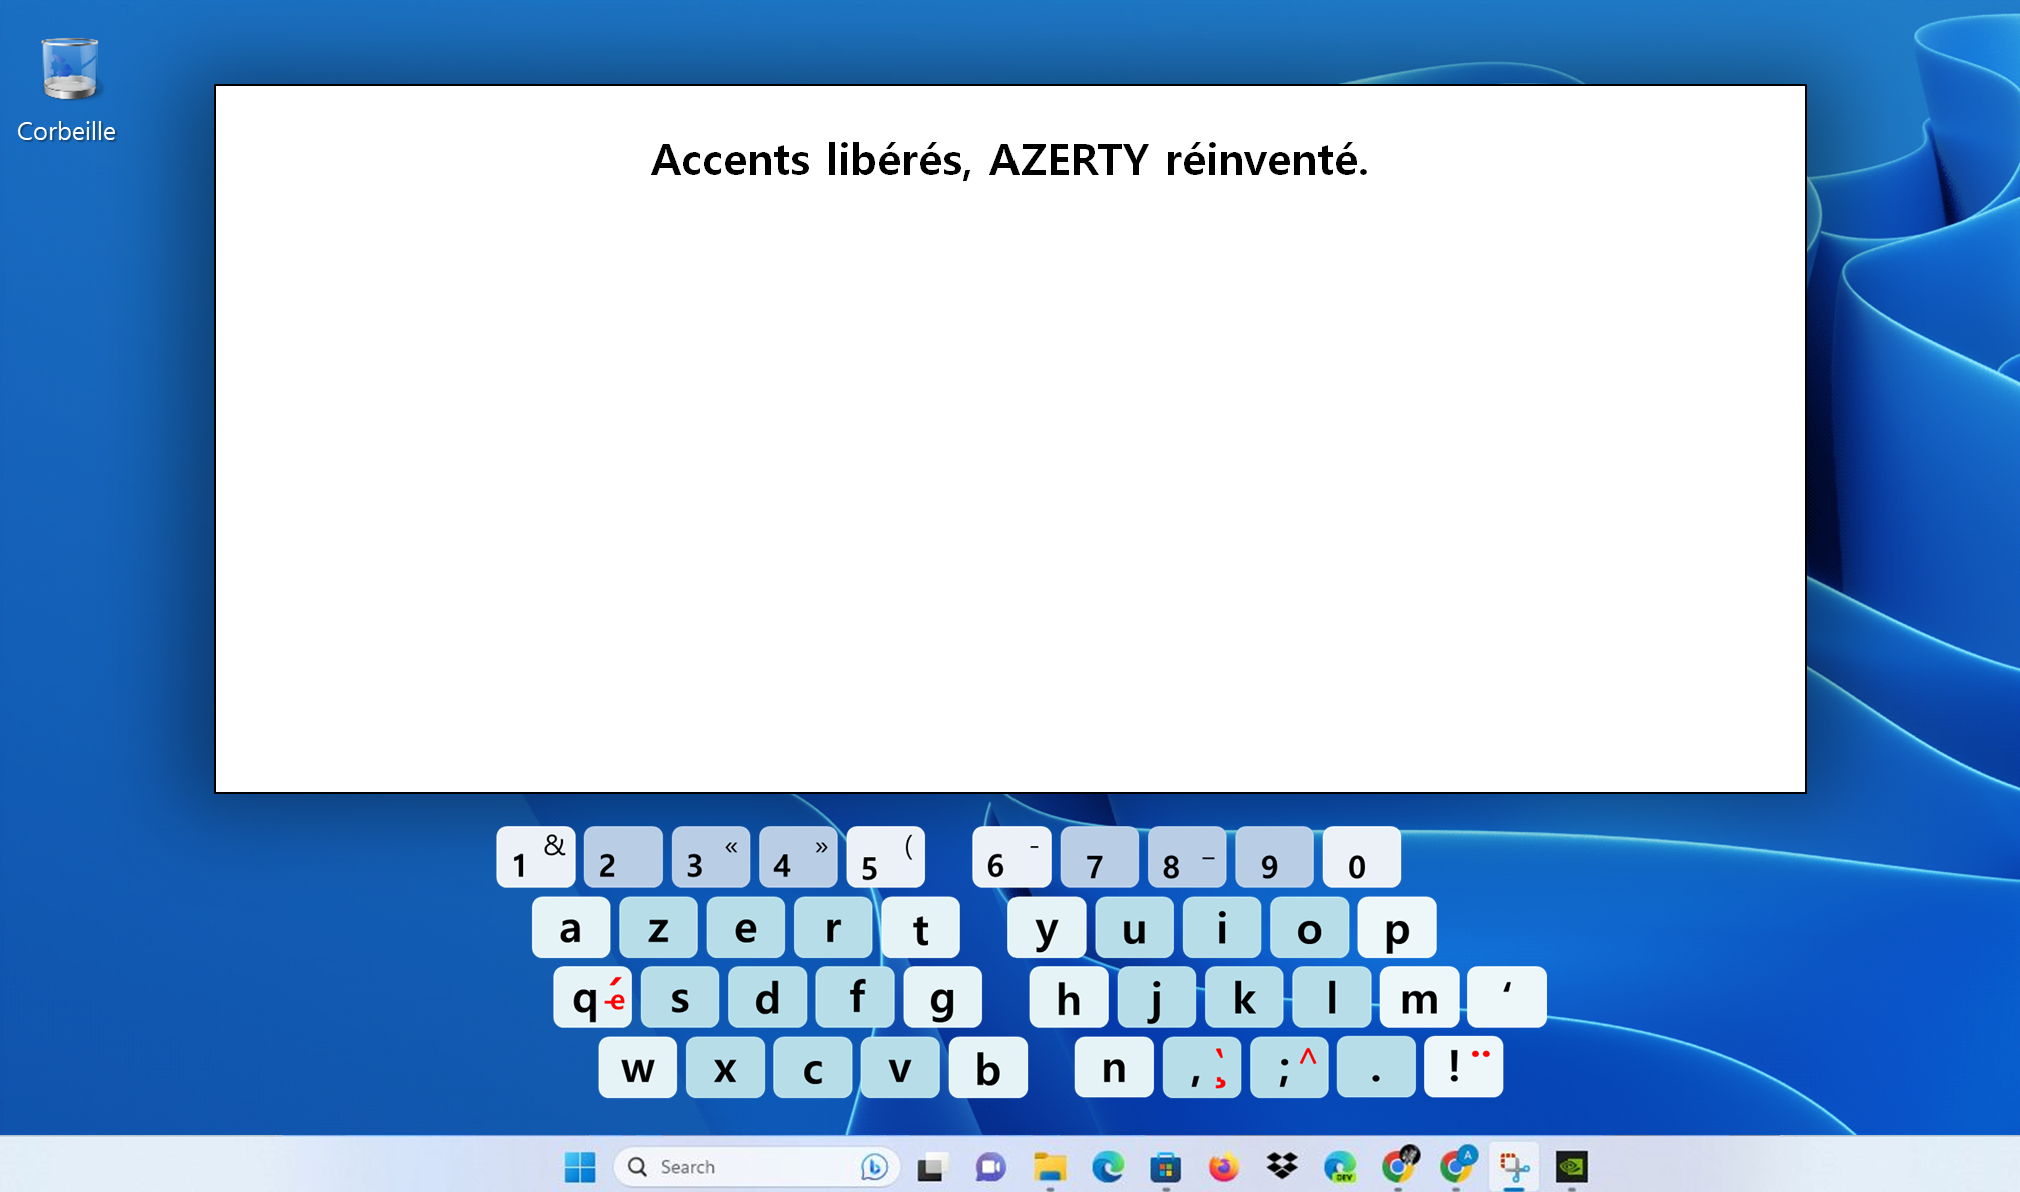
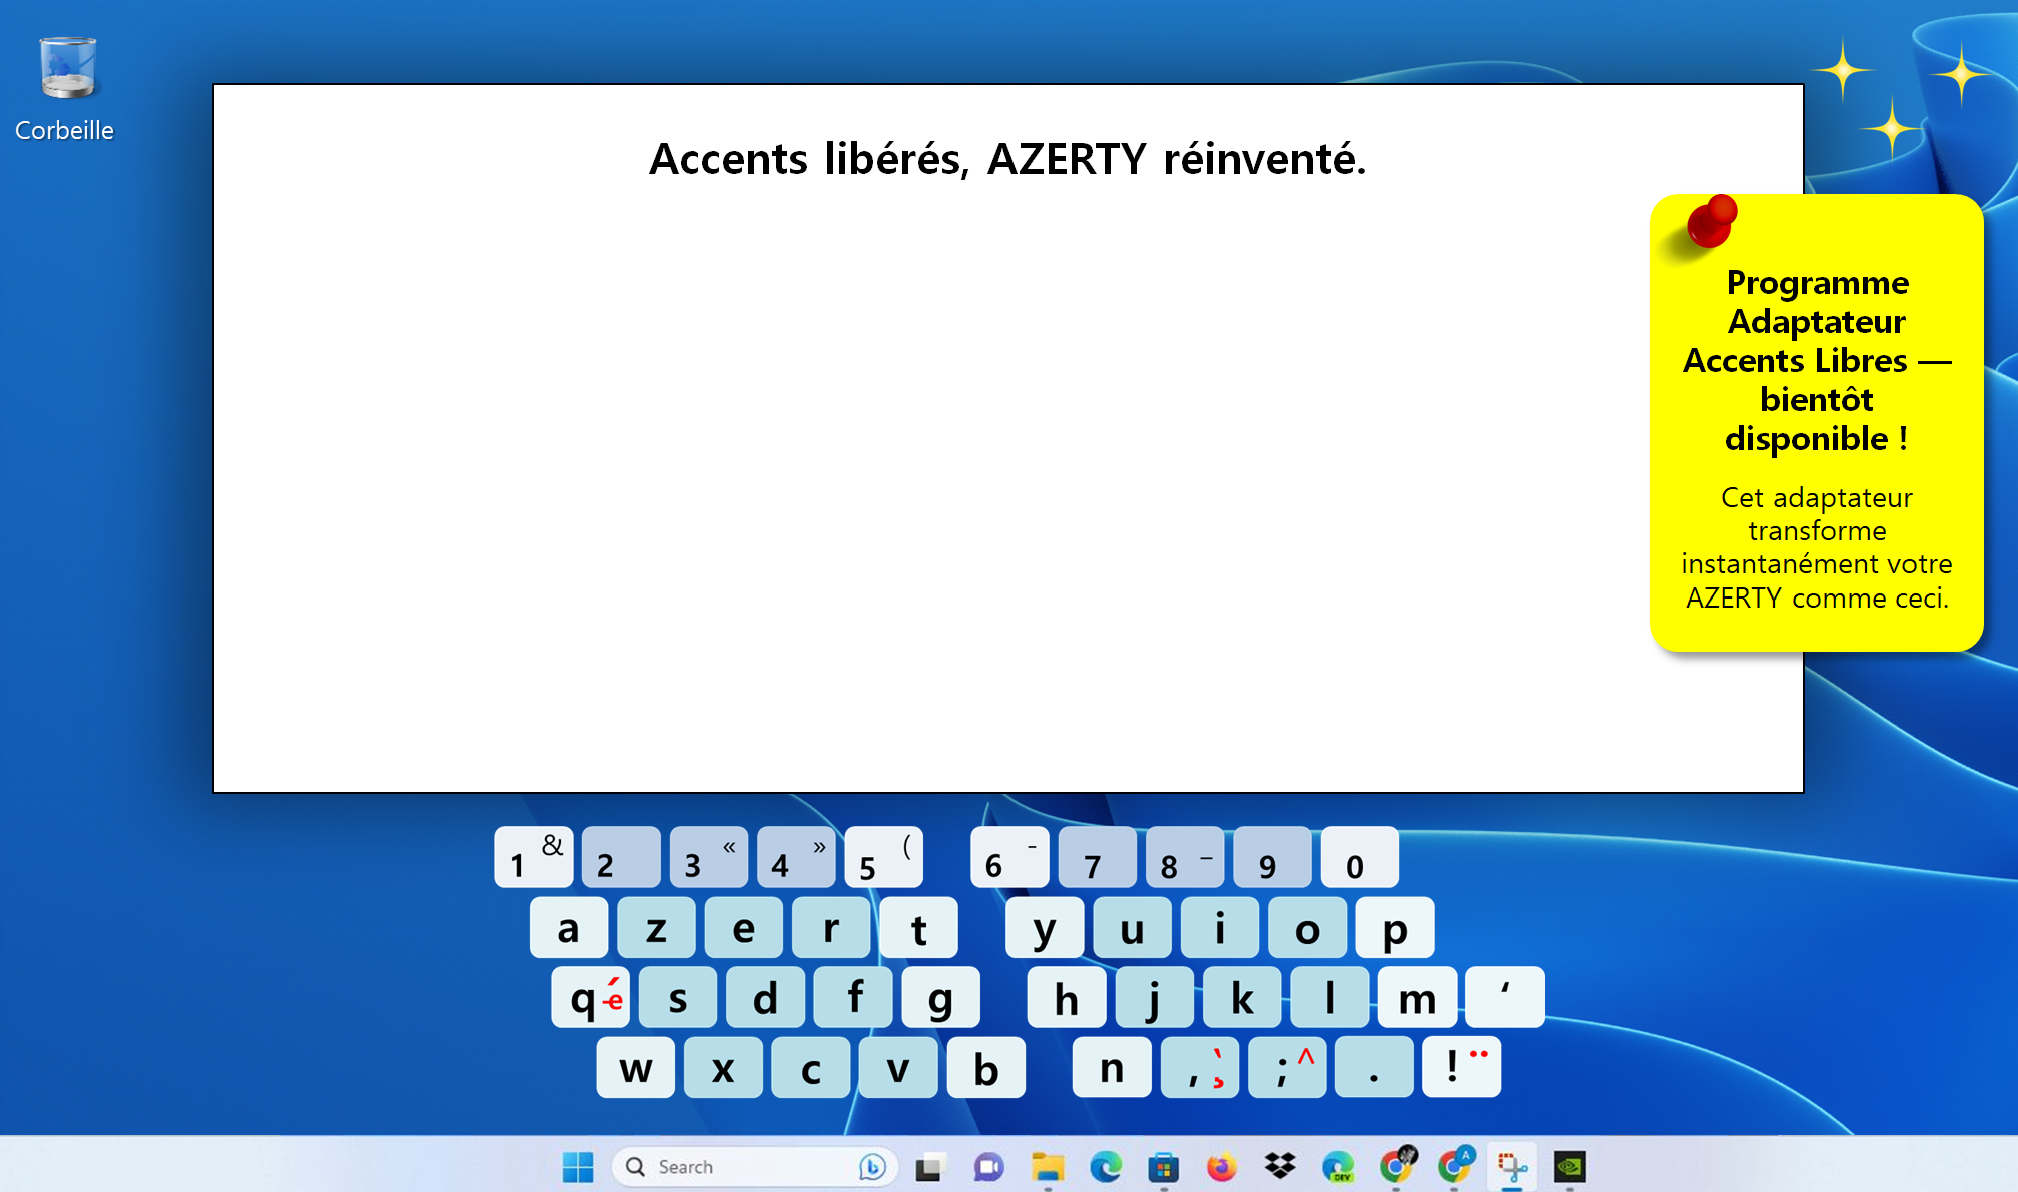
Add files via upload

diff --git a/azerty.html b/azerty.html
@@ -56,6 +56,18 @@
   /* preview NEXT marker (kept but neutralized) */
   #preview-NEXT.default::after{content:none !important; border:none !important; width:0 !important; height:0 !important;}
   #preview-NEXT{font-size:22px; text-shadow:.5px 0 currentColor,-.5px 0 currentColor,0 .5px currentColor,0 -.5px currentColor;}
+  
+  /* 메모 딱지 */
+#note {
+  position:absolute;          /* overlay와 동일 */
+  top:35px;                  /* 위치만 조절 */
+  right:0px;                 /* 필요에 따라 변경 */
+  width:180px;                /* 이미지 폭 */
+  z-index:50;                 /* textarea 위 */
+  pointer-events:none;        /* 타이핑 방해 X */
+}
+#pad{ z-index:10; }           /* (안 되면 추가) */
+
 </style>
 
 </head>
@@ -83,7 +95,8 @@ Le point est, lui aussi, plus pratique.
   <div id="previewLabels" style="position:absolute;top:0;left:0;width:100%;height:100%;pointer-events:none;z-index:9999;"></div>
 
 
-  <textarea id="output" class="overlay" style="top:240px; left:14.5%; height:130px; width:70%; font-size: 24px;"></textarea>
+  <textarea id="output" class="overlay" style="top:240px; left:19%; height:130px; width:60%; font-size: 24px;"></textarea>
+
   <div class="overlay" style="bottom:160px; left:50%; transform:translateX(-50%); display:flex; gap:20px;">
     
 

diff --git a/qwerty.html b/qwerty.html
@@ -81,7 +81,7 @@ Elles s’utilisent directement, sans aucune combinaison.
   <div id="previewLabels" style="position:absolute;top:0;left:0;width:100%;height:100%;pointer-events:none;z-index:9999;"></div>
 
 
-  <textarea id="output" class="overlay" style="top:240px; left:14.5%; height:130px; width:70%; font-size: 24px;"></textarea>
+  <textarea id="output" class="overlay" style="top:240px; left:19%; height:130px; width:60%; font-size: 24px;"></textarea>
   <div class="overlay" style="bottom:160px; left:50%; transform:translateX(-50%); display:flex; gap:20px;">
     
 
